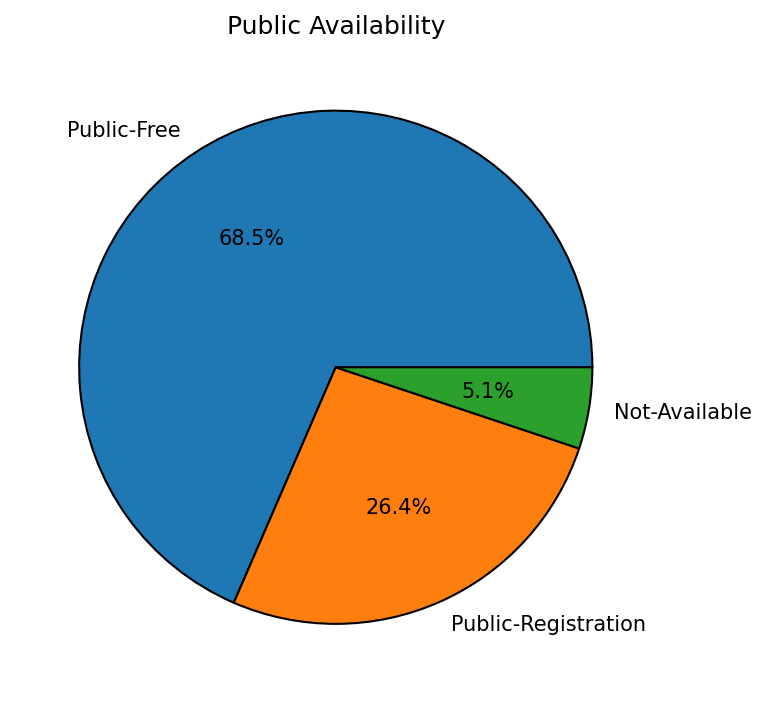
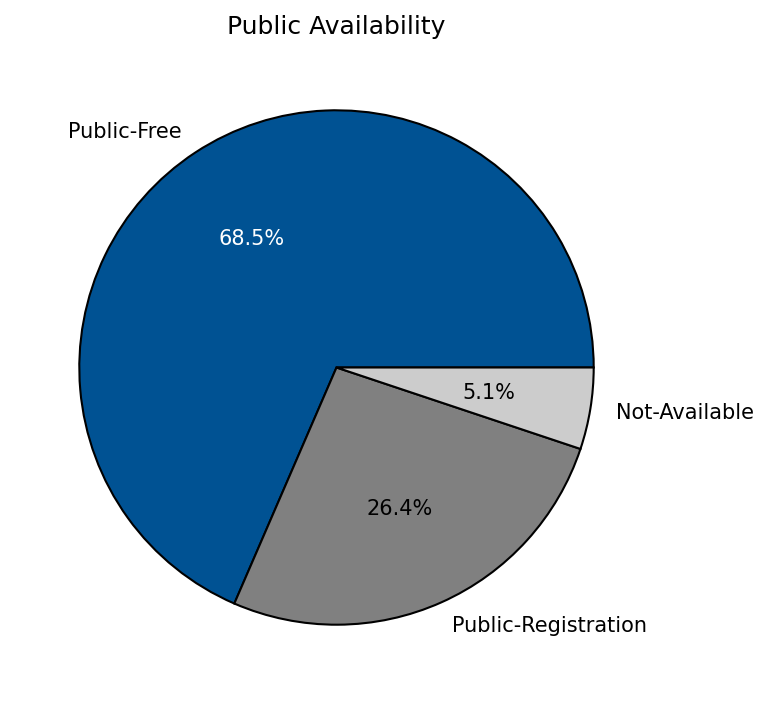
TUM Color 07,08,09,10

diff --git a/dataset/total_dataset_analysis/10_originality.py b/dataset/total_dataset_analysis/10_originality.py
@@ -1,6 +1,8 @@
 import pandas as pd
 import matplotlib.pyplot as plt
-import os
+import os, sys
+sys.path.append(os.path.join(os.path.dirname(os.path.abspath(__file__)), '..'))
+from tum_colors import TUM_SECONDARY
 
 BASE_DIR = os.path.dirname(os.path.abspath(__file__))
 df = pd.read_csv(os.path.join(BASE_DIR, 'dataset_cleaned.csv'))
@@ -10,8 +12,18 @@ labels = {0: 'Original', 1: 'Derived', 2: 'Extension', 3: 'Aggregated'}
 sizes = [counts.get(k, 0) for k in [0, 1, 2, 3]]
 names = [labels[k] for k in [0, 1, 2, 3]]
 
+DARK_COLORS = {TUM_SECONDARY['blue1'], TUM_SECONDARY['blue2']}
+pie_colors = [TUM_SECONDARY['blue2'], TUM_SECONDARY['gray'], TUM_SECONDARY['light_gray'], TUM_SECONDARY['blue1']]  # adjust per chart
+
 plt.figure()
-plt.pie(sizes, labels=names, autopct='%1.1f%%', wedgeprops={'edgecolor': 'black'})
+wedges, texts, autotexts = plt.pie(sizes, labels=names, autopct='%1.1f%%',
+                                    colors=pie_colors,
+                                    wedgeprops={'edgecolor': 'black'})
+for i, autotext in enumerate(autotexts):
+    if pie_colors[i] in DARK_COLORS:
+        autotext.set_color('white')
+    else:
+        autotext.set_color('black')
 plt.title('Original / Derived / Extension / Aggregated Datasets')
 plt.tight_layout()
 

diff --git a/dataset/total_dataset_analysis/09_availability.py b/dataset/total_dataset_analysis/09_availability.py
@@ -1,6 +1,8 @@
 import pandas as pd
 import matplotlib.pyplot as plt
-import os
+import os, sys
+sys.path.append(os.path.join(os.path.dirname(os.path.abspath(__file__)), '..'))
+from tum_colors import TUM_SECONDARY
 
 BASE_DIR = os.path.dirname(os.path.abspath(__file__))
 df = pd.read_csv(os.path.join(BASE_DIR, 'dataset_cleaned.csv'))
@@ -10,8 +12,18 @@ labels = {0: 'Public-Free', 1: 'Public-Registration', 2: 'Not-Available'}
 sizes = [counts.get(k, 0) for k in [0, 1, 2]]
 names = [labels[k] for k in [0, 1, 2]]
 
+DARK_COLORS = {TUM_SECONDARY['blue1'], TUM_SECONDARY['blue2']}
+pie_colors = [TUM_SECONDARY['blue2'], TUM_SECONDARY['gray'], TUM_SECONDARY['light_gray'], TUM_SECONDARY['blue1']]  # adjust per chart
+
 plt.figure()
-plt.pie(sizes, labels=names, autopct='%1.1f%%', wedgeprops={'edgecolor': 'black'})
+wedges, texts, autotexts = plt.pie(sizes, labels=names, autopct='%1.1f%%',
+                                    colors=pie_colors,
+                                    wedgeprops={'edgecolor': 'black'})
+for i, autotext in enumerate(autotexts):
+    if pie_colors[i] in DARK_COLORS:
+        autotext.set_color('white')
+    else:
+        autotext.set_color('black')
 plt.title('Public Availability')
 plt.tight_layout()
 

diff --git a/dataset/total_dataset_analysis/06_real_syn_mix_pie.py b/dataset/total_dataset_analysis/06_real_syn_mix_pie.py
@@ -12,10 +12,18 @@ labels = {0: 'Real', 1: 'Synthetic', 2: 'Mixed'}
 sizes = [counts.get(k, 0) for k in [0, 1, 2]]
 names = [labels[k] for k in [0, 1, 2]]
 
+DARK_COLORS = {TUM_SECONDARY['blue1'], TUM_SECONDARY['blue2']}
+pie_colors = [TUM_SECONDARY['blue2'], TUM_SECONDARY['gray'], TUM_SECONDARY['light_gray'], TUM_SECONDARY['blue1']]  # adjust per chart
+
 plt.figure()
-plt.pie(sizes, labels=names, autopct='%1.1f%%',
-        colors=[TUM_SECONDARY['blue2'], TUM_SECONDARY['gray'], TUM_SECONDARY['light_gray']],
-        wedgeprops={'edgecolor': 'black'})
+wedges, texts, autotexts = plt.pie(sizes, labels=names, autopct='%1.1f%%',
+                                    colors=pie_colors,
+                                    wedgeprops={'edgecolor': 'black'})
+for i, autotext in enumerate(autotexts):
+    if pie_colors[i] in DARK_COLORS:
+        autotext.set_color('white')
+    else:
+        autotext.set_color('black')
 plt.title('Real / Synthetic / Mixed Datasets')
 plt.tight_layout()
 
@@ -23,3 +31,4 @@ out = os.path.join(BASE_DIR, 'total_dataset_analysis_figures', '06_pie_real_synt
 plt.savefig(out, dpi=150, bbox_inches='tight')
 plt.show()
 print(f'Saved → {out}')
+

diff --git a/dataset/total_dataset_analysis/07a_cameras.py b/dataset/total_dataset_analysis/07a_cameras.py
@@ -1,12 +1,12 @@
 import pandas as pd
 import matplotlib.pyplot as plt
-import os
+import os, sys
+sys.path.append(os.path.join(os.path.dirname(os.path.abspath(__file__)), '..'))
+from tum_colors import TUM_SECONDARY
 
 BASE_DIR = os.path.dirname(os.path.abspath(__file__))
 df = pd.read_csv(os.path.join(BASE_DIR, 'dataset_cleaned.csv'))
 
-# Filter: Real (0) + Original (0) + Extension (2) only
-# Same filter as chart 03
 filtered = df[
     (df['Real / Synthetic / Mixed'] == 0) &
     (df['Original / Derived / Extension / Aggregated'].isin([0, 2]))
@@ -16,7 +16,7 @@ camera_cols = ['Monocular Camera', 'Stereo Camera', 'Fisheye Camera', 'Event Cam
 counts = filtered[camera_cols].sum().sort_values(ascending=True)
 
 fig, ax = plt.subplots(figsize=(10, 6))
-ax.barh(counts.index, counts.values, edgecolor='black')
+ax.barh(counts.index, counts.values, color=TUM_SECONDARY['blue2'], edgecolor='black')
 ax.set_title('Number of Datasets Using Each Camera Type\n(Real + Original + Extension only)')
 ax.set_xlabel('Number of Datasets')
 ax.grid(True)

diff --git a/dataset/total_dataset_analysis/08_vehicle_info.py b/dataset/total_dataset_analysis/08_vehicle_info.py
@@ -1,11 +1,12 @@
 import pandas as pd
 import matplotlib.pyplot as plt
-import os
+import os, sys
+sys.path.append(os.path.join(os.path.dirname(os.path.abspath(__file__)), '..'))
+from tum_colors import TUM_SECONDARY
 
 BASE_DIR = os.path.dirname(os.path.abspath(__file__))
 df = pd.read_csv(os.path.join(BASE_DIR, 'dataset_cleaned.csv'))
 
-# Filter: Real (0) + Original (0) + Extension (2) only
 filtered = df[
     (df['Real / Synthetic / Mixed'] == 0) &
     (df['Original / Derived / Extension / Aggregated'].isin([0, 2]))
@@ -15,7 +16,7 @@ veh_cols = ['Ego-motion IMU / INS', 'CAN Bus / Vehicle Odometry', 'Ego Pose / Tr
 counts = filtered[veh_cols].sum().sort_values(ascending=True)
 
 fig, ax = plt.subplots(figsize=(10, 4))
-ax.barh(counts.index, counts.values, edgecolor='black')
+ax.barh(counts.index, counts.values, color=TUM_SECONDARY['blue2'], edgecolor='black')
 ax.set_title('Number of Datasets with Each Vehicle Information Type\n(Real + Original + Extension only)')
 ax.set_xlabel('Number of Datasets')
 ax.grid(True)

diff --git a/dataset/total_dataset_analysis/07b_sensors.py b/dataset/total_dataset_analysis/07b_sensors.py
@@ -1,12 +1,12 @@
 import pandas as pd
 import matplotlib.pyplot as plt
-import os
+import os, sys
+sys.path.append(os.path.join(os.path.dirname(os.path.abspath(__file__)), '..'))
+from tum_colors import TUM_SECONDARY
 
 BASE_DIR = os.path.dirname(os.path.abspath(__file__))
 df = pd.read_csv(os.path.join(BASE_DIR, 'dataset_cleaned.csv'))
 
-# Filter: Real (0) + Original (0) + Extension (2) only
-# Same filter as chart 03
 filtered = df[
     (df['Real / Synthetic / Mixed'] == 0) &
     (df['Original / Derived / Extension / Aggregated'].isin([0, 2]))
@@ -16,7 +16,7 @@ sensor_cols = ['LiDAR', 'Radar', 'IMU', 'GPS_GNSS']
 counts = filtered[sensor_cols].sum().sort_values(ascending=True)
 
 fig, ax = plt.subplots(figsize=(10, 5))
-ax.barh(counts.index, counts.values, edgecolor='black')
+ax.barh(counts.index, counts.values, color=TUM_SECONDARY['blue2'], edgecolor='black')
 ax.set_title('Number of Datasets Using Each Sensor Type\n(Real + Original + Extension only)')
 ax.set_xlabel('Number of Datasets')
 ax.grid(True)
